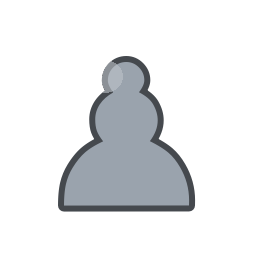
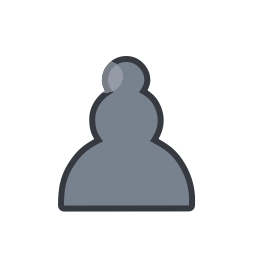
One scale for panels: a control inside a row is eighty tall in a row of a hundred, so a chip can no longer bleed out of the card that holds it, and Secret becomes the blazing white it always was in the world while Common steps down to a deeper slate to keep the two ends of the ladder apart

Changed region(s): [[0.25, 0.2188, 0.75, 0.8125]]

diff --git a/src/client/quests-ui.tsx b/src/client/quests-ui.tsx
@@ -78,12 +78,12 @@ function QuestRow(props: { i: number }): ReactEcs.JSX.Element {
   return (
     <UiEntity
       uiTransform={{
-        width: '100%', height: 84, flexDirection: 'row', alignItems: 'center',
+        width: '100%', height: TAP.rangee, flexDirection: 'row', alignItems: 'center',
         margin: { bottom: 10 }, padding: { left: 16, right: 10 }, borderRadius: RAD.card
       }}
       uiBackground={{ color: SURF.carte }}
     >
-      <UiEntity uiTransform={{ width: COL.texte, height: 76, flexDirection: 'column', justifyContent: 'center' }}>
+      <UiEntity uiTransform={{ width: COL.texte, height: TAP.menu, flexDirection: 'column', justifyContent: 'center' }}>
         <Label value={q?.texte ?? ''} fontSize={TYPE.label}
           color={pris ? Color4.fromHexString('#6f7a6fff') : Color4.White()}
           uiTransform={{ width: '100%', height: 34 }} textAlign="middle-left" />
@@ -97,12 +97,12 @@ function QuestRow(props: { i: number }): ReactEcs.JSX.Element {
       </UiEntity>
       <Label value={`${fait}/${cible}`} fontSize={TYPE.label}
         color={Color4.fromHexString('#a8b2c0ff')}
-        uiTransform={{ width: COL.compteur, height: 76 }} textAlign="middle-center" />
-      <UiEntity uiTransform={{ width: COL.action, height: TAP.height, justifyContent: 'flex-end', alignItems: 'center' }}>
+        uiTransform={{ width: COL.compteur, height: TAP.menu }} textAlign="middle-center" />
+      <UiEntity uiTransform={{ width: COL.action, height: TAP.menu, justifyContent: 'flex-end', alignItems: 'center' }}>
       {pris ? (
-        <Btn label="CLAIMED" width={187} size={TYPE.caption} skin="disabled" />
+        <Btn label="CLAIMED" width={187} height={TAP.menu} size={TYPE.caption} skin="disabled" />
       ) : fini ? (
-        <Btn label="CLAIM" width={187} size={TYPE.caption} skin="success" onClick={() => claim(i)} />
+        <Btn label="CLAIM" width={187} height={TAP.menu} size={TYPE.caption} skin="success" onClick={() => claim(i)} />
       ) : (
         /*
           The reward, shown as a REWARD. It sat on a button plate reading "+1 CRATE" that
@@ -110,7 +110,7 @@ function QuestRow(props: { i: number }): ReactEcs.JSX.Element {
           player the interface lies (owner, 1 Sep). A quiet chip with the crate icon says
           "this is what you are earning", and only CLAIM ever looks pressable.
         */
-        <Puce width={187}>
+        <Puce width={187} height={TAP.menu}>
           <UiEntity uiTransform={{ width: 44, height: 44, margin: { right: 8 } }}
             uiBackground={{ texture: { src: 'assets/ui/ui-crate.png' }, textureMode: 'stretch' }} />
           <Label value="+1" fontSize={TYPE.label} color={C.money}
@@ -130,7 +130,7 @@ function QuestRow(props: { i: number }): ReactEcs.JSX.Element {
  */
 const STREAK_H = 92
 
-export const HAUTEUR_GOALS = 3 * (84 + 10) + (70 + 6) + (30 + 10) + STREAK_H
+export const HAUTEUR_GOALS = 3 * (TAP.rangee + 10) + (TAP.rangee + 6) + (30 + 10) + STREAK_H
 
 export function QuestsContent(): ReactEcs.JSX.Element | null {
   if (!questsView.open) return null
@@ -143,7 +143,7 @@ export function QuestsContent(): ReactEcs.JSX.Element | null {
       {questsView.ids.map((_, i) => <QuestRow i={i} />)}
 
     <UiEntity
-        uiTransform={{ width: '100%', height: 70, flexDirection: 'row', alignItems: 'center', margin: { top: 6 }, padding: { left: 16, right: 10 }, borderRadius: RAD.card }}
+        uiTransform={{ width: '100%', height: TAP.rangee, flexDirection: 'row', alignItems: 'center', margin: { top: 6 }, padding: { left: 16, right: 10 }, borderRadius: RAD.card }}
         uiBackground={{ color: SURF.carte }}
       >
         {/* Same three columns as a quest row: the text spans the first two, the action
@@ -151,11 +151,11 @@ export function QuestsContent(): ReactEcs.JSX.Element | null {
         <Label value="ALL THREE  ·  bonus rare crate" fontSize={TYPE.label}
           color={allDone ? Color4.fromHexString('#ffd166ff') : Color4.fromHexString('#7d879bff')}
           uiTransform={{ width: '74%', height: 60 }} textAlign="middle-left" />
-        <UiEntity uiTransform={{ width: COL.action, height: TAP.height, justifyContent: 'flex-end', alignItems: 'center' }}>
+        <UiEntity uiTransform={{ width: COL.action, height: TAP.menu, justifyContent: 'flex-end', alignItems: 'center' }}>
           {questsView.pris[3] === 1 ? (
-            <Btn label="CLAIMED" width={187} size={TYPE.caption} skin="disabled" />
+            <Btn label="CLAIMED" width={187} height={TAP.menu} size={TYPE.caption} skin="disabled" />
           ) : (
-            <Btn label={allDone ? 'CLAIM' : 'LOCKED'} width={187} size={TYPE.caption}
+            <Btn label={allDone ? 'CLAIM' : 'LOCKED'} width={187} height={TAP.menu} size={TYPE.caption}
               skin={allDone ? 'success' : 'disabled'}
               onClick={allDone ? () => claim(3) : undefined} />
           )}

diff --git a/src/shared/loot-table.ts b/src/shared/loot-table.ts
@@ -13,16 +13,24 @@ import { CRATE_PRICE, PRODUCTION_PER_RARITY, RESELL_SECONDS } from './economy'
   `glow` rises with it so the top of the ladder reads as lit, not just large.
 */
 export const RARITIES = [
-  { id: 0, name: 'Common',    color: '#9aa3ad', size: 1.00, glow: 0.00, tours: 0 },
+  // Common steps DOWN to a deeper slate, which is what lets Secret be white.
+  { id: 0, name: 'Common',    color: '#78818e', size: 1.00, glow: 0.00, tours: 0 },
   { id: 1, name: 'Uncommon',  color: '#4ec04e', size: 1.15, glow: 0.35, tours: 0 },
   { id: 2, name: 'Rare',      color: '#3d8ef0', size: 1.30, glow: 0.80, tours: 20 },
   { id: 3, name: 'Epic',      color: '#a855f7', size: 1.50, glow: 1.30, tours: 35 },
   { id: 4, name: 'Legendary', color: '#f5a524', size: 1.70, glow: 2.00, tours: 55 },
   { id: 5, name: 'Mythic',    color: '#ff4d6d', size: 1.95, glow: 2.80, tours: 80 },
-  // Turquoise, and not another grey. Secret shipped at #e8e8f0 against Common's #9aa3ad:
-  // two pale greys at the ends of the same ladder, indistinguishable on a card (owner, 1 Sep).
-  // The rarest thing in the game now owns a hue nothing else on either axis uses.
-  { id: 6, name: 'Secret',    color: '#19e8c8', size: 2.20, glow: 4.00, tours: 120 }
+  /*
+    White, at full luminance, because that is what a Secret IS in the world.
+
+    It shipped at #e8e8f0 against Common's #9aa3ad: two pale greys at the ends of one
+    ladder, indistinguishable on a card. Turquoise separated them but broke the thing the
+    owner recognised in the object itself (1 Sep). The separation is made where it should
+    have been made from the start, at the OTHER end: Common drops to a deeper slate, so the
+    two ends now sit at half and full luminance, and Secret keeps the blazing white its
+    glow of 4 and its own light were always painting.
+  */
+  { id: 6, name: 'Secret',    color: '#ffffff', size: 2.20, glow: 4.00, tours: 120 }
 ] as const
 
 export function rarity(id: number) {

diff --git a/src/client/shop-ui.tsx b/src/client/shop-ui.tsx
@@ -41,7 +41,7 @@ export const shopView = { open: false }
   the button stays TAP.height regardless, and 34 + 26 still holds a label and a caption. What
   got cut was air, not content. 3 x 38 + 5 x 72 + the window's own padding lands at 620.
 */
-const RANG = 64
+const RANG = TAP.rangee - 14
 const TITRE_FAMILLE = 34
 /** Between rows. Eight read as one block on a phone; a row needs its own air. */
 const ENTRE = 18
@@ -112,9 +112,9 @@ const Rang = (props: {
     <Label value={props.prix > 0 ? formatIncome(props.prix) : ''} fontSize={TYPE.label}
       color={C.money}
       uiTransform={{ width: '18%', height: RANG }} textAlign="middle-center" textWrap="nowrap" />
-    <UiEntity uiTransform={{ width: '24%', height: TAP.height, justifyContent: 'flex-end' }}>
-      {/* A lock must not dress as a button: LOCKED and OWNED take the greyed plate. */}
-      <Btn label={props.bouton} width={200} primary={props.possible}
+    <UiEntity uiTransform={{ width: '24%', height: TAP.menu, justifyContent: 'flex-end', alignItems: 'center' }}>
+      {/* A lock must not dress as a button: LOCKED and OWNED take the quiet chip. */}
+      <Btn label={props.bouton} width={200} height={TAP.menu} primary={props.possible}
         skin={props.bouton === 'LOCKED' || props.bouton === 'OWNED' ? 'disabled' : undefined}
         onClick={() => { if (props.possible) props.onClick() }} />
     </UiEntity>

diff --git a/src/client/theme.ts b/src/client/theme.ts
@@ -174,7 +174,17 @@ export const C = {
  */
 export const RAD = { card: 14, bar: 10 } as const
 
-export const TAP = { height: 96, gap: 20, phone: 120 } as const   // phone: 63 pt, what the tester's thumb asked for (28 Aug)
+/**
+ * The tap sizes, and the one that was missing.
+ *
+ * `height` is the world control: the bottom bar, the navigation tabs, anything a thumb
+ * hunts for while the game runs. `menu` is a control INSIDE a panel, and it exists because
+ * the world size does not fit there: an 84-tall row was being handed a 96-tall control,
+ * which was invisible while the control was a lifted plate and obvious the moment it became
+ * a flat chip, bleeding above and below its own card (owner, 1 Sep). `rangee` is the row
+ * that holds one, air included, so the two can never be set apart again.
+ */
+export const TAP = { height: 96, gap: 20, phone: 120, menu: 80, rangee: 100 } as const   // phone: 63 pt, what the tester's thumb asked for (28 Aug)
 
 /**
  * Draw the interface as a phone would, while sitting at a desk.

diff --git a/tools/ui/build-toy-icons.py b/tools/ui/build-toy-icons.py
@@ -24,8 +24,8 @@ N = 256
 
 # src/shared/loot-table.ts, RARITIES: colour and glow, in order.
 RARITIES = [
-    ('#9aa3ad', 0.00), ('#4ec04e', 0.35), ('#3d8ef0', 0.80), ('#a855f7', 1.30),
-    ('#f5a524', 2.00), ('#ff4d6d', 2.80), ('#19e8c8', 4.00),
+    ('#78818e', 0.00), ('#4ec04e', 0.35), ('#3d8ef0', 0.80), ('#a855f7', 1.30),
+    ('#f5a524', 2.00), ('#ff4d6d', 2.80), ('#ffffff', 4.00),
 ]
 
 
